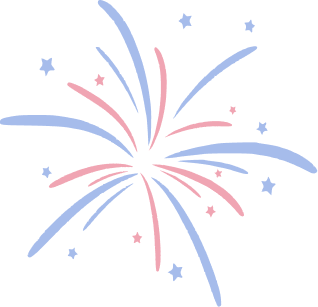
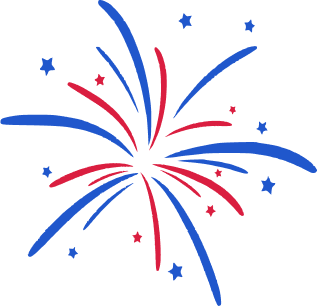
fix: new bottom images

diff --git a/components/landingPage/Bottom.tsx b/components/landingPage/Bottom.tsx
@@ -1,16 +1,28 @@
 "use client"
 import React from 'react';
 import Button from '../Button';
-import MyFavoriteSport2024 from '../../public/landingPage/MyFavoriteSport2024.png';
+import a from '../../public/landingPage/a.jpg';
+import b from '../../public/landingPage/b.jpg';
+import c from '../../public/landingPage/c.png';
+import d from '../../public/landingPage/d.jpg';
+import e from '../../public/landingPage/e.jpg';
+import f from '../../public/landingPage/f.jpg';
+import g from '../../public/landingPage/g.jpg';
+import h from '../../public/landingPage/h.jpg';
+import i from '../../public/landingPage/i.jpg';
+import j from '../../public/landingPage/j.jpg';
+
 import Image from "next/image";
 
 const Bottom = () => {
 
+  const images = [a, b, c, d, e, f, g, h, i, j];
+
   return (
-    <section className='relative w-full'>
-      <div className='z-50 m-auto max-w-screen-2xl px-8 md:px-12 lg:px-16 xl:px-20'>
-        <h2 className='font-montserrat font-semibold text-2xl text-left w-full md:w-3/4'>Your donation today will cultivate children's creativity and grow their mutual empathy for shared prosperity and “a more perfect union.”</h2>
-        <div className='my-8 grid grid-cols-2 gap-x-5 sm:w-2/3 md:w-1/2 lg:w-1/3 2xl:w-1/4'>
+    <section className='relative z-50 m-auto max-w-screen-2xl px-8 md:px-12 lg:px-16 xl:px-20'>
+      <div className='rounded-3xl bg-blue bg-opacity-10'>
+        <h2 className='ml-12 pt-28 font-montserrat font-semibold text-2xl text-left w-full md:w-3/4'>Your donation today will cultivate children's creativity and grow their mutual empathy for shared prosperity and “a more perfect union.”</h2>
+        <div className='ml-12 mt-12 pb-28 grid grid-cols-2 gap-x-5 sm:w-2/3 md:w-1/2 lg:w-1/3 2xl:w-1/4'>
           <Button
             bgColor="bg-yellow"
             textColor="text-black w-full"
@@ -26,25 +38,22 @@ const Bottom = () => {
             Contact Us
           </Button>
         </div>
-        <div className="z-20 flex flex-row overflow-x-auto m-auto whitespace-nowrap px-4 mb-10 gap-x-4 scrollbar-hide">
-          <Image src={MyFavoriteSport2024} alt="" className="w-72 xl:w-96 h-44 md:h-48 lg:h-52 xl:h-64 z-20 object-scale-down rounded-xl"/>
-          <Image src={MyFavoriteSport2024} alt="" className="w-72 xl:w-96 h-44 md:h-48 lg:h-52 xl:h-64 z-20 object-scale-down rounded-xl"/>
-          <Image src={MyFavoriteSport2024} alt="" className="w-72 xl:w-96 h-44 md:h-48 lg:h-52 xl:h-64 z-20 object-scale-down rounded-xl"/>
-          <Image src={MyFavoriteSport2024} alt="" className="w-72 xl:w-96 h-44 md:h-48 lg:h-52 xl:h-64 z-20 object-scale-down rounded-xl"/>
-          <Image src={MyFavoriteSport2024} alt="" className="w-72 xl:w-96 h-44 md:h-48 lg:h-52 xl:h-64 z-20 object-scale-down rounded-xl"/>
-          <Image src={MyFavoriteSport2024} alt="" className="w-72 xl:w-96 h-44 md:h-48 lg:h-52 xl:h-64 z-20 object-scale-down rounded-xl"/>
-        </div>
       </div>
-
-      <img src="/landingPage/RedAndBlueFirework.png" className='z-10 absolute right-0 -top-[100px] sm:-top-[150px] md:-top-[100px] lg:right-20 max-w-[300px] w-1/3 sm:w-1/4 2xl:w-1/5'/>
-
-      <div className='w-full absolute -bottom-52  -z-10'>
-        <img src="/landingPage/background_sm.png" alt="Background for sm devices" className="w-full h-[900px] block sm:hidden" />
-        <img src="/landingPage/background_md.png" alt="Background for md devices" className="w-full h-[800px] hidden sm:block md:hidden" />
-        <img src="/landingPage/background_lg.png" alt="Background for lg devices" className="w-full h-[800px] hidden md:block lg:hidden" />
-        <img src="/landingPage/background_xl.png" alt="Background for xl devices" className="w-full h-[800px] hidden lg:block xl:hidden" />
-        <img src="/landingPage/background_2xl.png" alt="Background for 2xl devices" className="w-full h-[850px] hidden xl:block" />
+      <div className="py-32 z-20 flex flex-row overflow-x-auto m-auto whitespace-nowrap px-4 mb-10 gap-x-4 scrollbar-hide">
+        {/* <Image src={a} alt="" className="w-72 xl:w-96 h-44 md:h-48 lg:h-52 xl:h-64 z-20 object-cover object-center rounded-xl"/> */}
+          {images.map((src, index) => (
+            <Image
+              key={index}
+              src={src}
+              alt={`image-${index}`} 
+              className="w-72 xl:w-96 h-44 md:h-48 lg:h-52 xl:h-64 z-20 object-cover object-center rounded-xl"
+            />
+          ))}
       </div>
+      
+
+      <img src="/landingPage/RedAndBlueFirework.png" className='z-10 absolute right-0 -top-[50px] xsm:-top-[100px] md:top-64 lg:top-56 lg:right-2 xl:top-36 max-w-[300px] w-1/3 sm:w-1/4 2xl:w-1/5'/>
+
       
     </section>
   );

diff --git a/components/landingPage/SpecialProjects.tsx b/components/landingPage/SpecialProjects.tsx
@@ -8,29 +8,46 @@ import VRHeaven2025 from '../../public/landingPage/VRHeaven2025.png';
 const SpecialProjects = () => {
 
   return (
-    <section className='my-40 mb-[300px] m-auto max-w-screen-2xl px-8 md:px-12 lg:px-16 xl:px-20'>
-      <h1 className='mb-10 font-extrabold font-montserrat text-2xl lg:text-4xl text-center text-black'>Special Projects Websites</h1>
-      <div className='grid grid-cols-1 lg:grid-cols-3 gap-6'>
-        <ProjectCard  
-          background={WorldChildrenFestival2025}
-          title="World Children's Festival 2025"
-          element="A three-day celebration of American values of creativity, diversity, and unity"
-          link="#"
-        />
-        <ProjectCard  
-          background={MyFavoriteSport2024}
-          title="My Favorite Sport 2024"
-          element="A global art contest to celebrate the Paris Games"
-          link="#"
-        />
-        <ProjectCard  
-          background={VRHeaven2025}
-          title="VR Heaven 2025/2026"
-          element="Virtual Reality that brings Heaven to Earth"
-          link="#"
-        />
-      </div>
-    </section>
+    <>
+      <img src="/landingPage/threeline_sm.png" alt="threeline for sm devices" className="mt-96 xsm:mt-48 absolute w-full h-fit min-h-[600px] xsm:min-h-[400px] block sm:hidden" />
+      <img src="/landingPage/threeline_md.png" alt="threeline for md devices" className="absolute w-full h-fit hidden sm:block lg:hidden" />
+      <img src="/landingPage/threeline_lg.png" alt="threeline for lg devices" className="mt-96 absolute w-full h-fit hidden lg:block xl:hidden" />
+      <img src="/landingPage/threeline_xl.png" alt="threeline for xl devices" className="mt-96 absolute w-full h-fit hidden xl:block 2xl:hidden" />
+      <img src="/landingPage/threeline_2xl.png" alt="threeline for 2xl devices" className="absolute w-full h-fit hidden 2xl:block" />
+      <section className='z-20 relative my-40 mb-[300px] m-auto max-w-screen-2xl px-8 md:px-12 lg:px-16 xl:px-20'>
+        <div className="flex justify-center items-center mb-10">
+          <img src="/landingPage/BlueFirework.png" className="w-12 sm:w-16 md:w-14 lg:w-16 2xl:w-20 h-auto mx-2 mb-12 lg:mb-16 xl:mb-20" alt="left firework" />
+          <h1 className="font-extrabold font-montserrat text-2xl lg:text-4xl text-center text-black">
+            Special Projects Websites
+          </h1>
+          <img src="/landingPage/BlueFirework.png" className="w-12 sm:w-16 md:w-14 lg:w-16 2xl:w-20 h-auto mx-2 mb-12 lg:mb-16 xl:mb-20" alt="right firework" />
+        </div>
+
+        <div className='grid grid-cols-1 lg:grid-cols-3 gap-6'>
+          <ProjectCard  
+            background={WorldChildrenFestival2025}
+            title="World Children's Festival 2025"
+            element="A three-day celebration of American values of creativity, diversity, and unity"
+            link="#"
+            borderColor="border-red"
+          />
+          <ProjectCard  
+            background={MyFavoriteSport2024}
+            title="My Favorite Sport 2024"
+            element="A global art contest to celebrate the Paris Games"
+            link="#"
+            borderColor="border-blue"
+          />
+          <ProjectCard  
+            background={VRHeaven2025}
+            title="VR Heaven 2025/2026"
+            element="Virtual Reality that brings Heaven to Earth"
+            link="#"
+            borderColor="border-yellow"
+          />
+        </div>
+      </section>
+    </>
   );
 };
 

diff --git a/components/landingPage/WhyICAF.tsx b/components/landingPage/WhyICAF.tsx
@@ -14,7 +14,7 @@ const WhyICAF = () => {
           <div className='col-span-2 lg:col-span-1'>
             <div className='flex col-span-1'>
               <AdsClickIcon style={{ color: "#2057CC" }}/>
-              <h2 className="ml-5 text-main-blue text-2xl lg:text-4xl font-semibold font-montserrat">Mission</h2>
+              <h2 className="ml-5 text-blue text-2xl lg:text-4xl font-semibold font-montserrat">Mission</h2>
             </div>
             <p className="mt-4 lg:ml-10 col-span-1 lg:col-span-2 text-base text-black font-normal font-openSans">To seed students' imagination, cultivate their creativity, and grow mutual empathy through the power of art. </p> 
           </div>
@@ -48,7 +48,7 @@ const WhyICAF = () => {
             <div className='mx-auto w-[380px] lg:w-full mt-12 grid grid-cols-1 lg:grid-cols-3'>
               <div className='flex col-span-1'>
                 <AdsClickIcon style={{ color: "#2057CC" }}/>
-                <h2 className="ml-5 text-main-blue text-2xl lg:text-4xl font-semibold font-montserrat">Mission</h2>
+                <h2 className="ml-5 text-blue text-2xl lg:text-4xl font-semibold font-montserrat">Mission</h2>
               </div>
               <p className="mt-4 lg:mt-0 lg:ml-10 col-span-1 lg:col-span-2 text-base text-black font-normal font-openSans">To seed students' imagination, cultivate their creativity, and grow mutual empathy through the power of art. </p>
               <div className='mt-10 flex col-span-1'>
@@ -63,13 +63,13 @@ const WhyICAF = () => {
           <div className="relative col-span-2 lg:col-span-1 h-80">
             <div className=" flex flex-col items-start">
               <div className="mx-auto mt-10 relative">
-                <div className="z-10 rounded-t-full rounded-b-full bg-gradient-to-b from-main-red to-main-blue absolute left-3.5 top-0 h-full w-1 bg-red-500"></div>
+                <div className="z-10 rounded-t-full rounded-b-full bg-gradient-to-b from-main-red to-blue absolute left-3.5 top-0 h-full w-1 bg-red-500"></div>
                 <div className="mt-4 z-50 flex items-center mb-8">
                   <div className="z-50 h-8 w-8 rounded-full bg-main-red"></div>
                   <h2 className="ml-8 text-2xl font-semibold font-montserrat">Social and Cultural Impact</h2>
                 </div>
                 <div className="z-50 flex items-center mb-8">
-                  <div className="z-50 h-8 w-8 rounded-full bg-main-blue"></div>
+                  <div className="z-50 h-8 w-8 rounded-full bg-blue"></div>
                   <div className="ml-8">
                     <h2 className="text-2xl font-semibold font-montserrat">115 Countries Reached</h2>
                     <p className="text-base text-black font-normal font-openSans">to make students creative and empathetic</p>
@@ -83,7 +83,7 @@ const WhyICAF = () => {
                   </div>
                 </div>
                 <div className="flex items-center">
-                  <div className="z-50 mb-4 h-8 w-8 rounded-full bg-main-blue"></div>
+                  <div className="z-50 mb-4 h-8 w-8 rounded-full bg-blue"></div>
                   <div className="ml-8">
                     <h2 className="text-2xl font-semibold font-montserrat">2 Million Kids Worldwide</h2>
                     <p className="text-base text-black font-normal font-openSans">produced original works for ICAF</p>

diff --git a/public/landingPage/icons/NorthEastIcon.tsx b/public/landingPage/icons/NorthEastIcon.tsx
@@ -2,6 +2,6 @@ import { SVGProps } from "react";
 
 export const NorthEastIcon = (props: SVGProps<SVGSVGElement>) => (
   <svg width="24" height="24" viewBox="0 0 24 24" fill="none" xmlns="http://www.w3.org/2000/svg">
-  <path id="outbound_2" d="M8.9 15.7885L14.5 10.1885V13.15H15.5V8.5H10.85V9.5H13.7865L8.2115 15.075L8.9 15.7885ZM12.0033 21C10.7587 21 9.58867 20.7638 8.493 20.2915C7.3975 19.8192 6.4445 19.1782 5.634 18.3685C4.8235 17.5588 4.18192 16.6067 3.70925 15.512C3.23642 14.4175 3 13.2479 3 12.0033C3 10.7587 3.23617 9.58867 3.7085 8.493C4.18083 7.3975 4.82183 6.4445 5.6315 5.634C6.44117 4.8235 7.39333 4.18192 8.488 3.70925C9.5825 3.23642 10.7521 3 11.9967 3C13.2413 3 14.4113 3.23617 15.507 3.7085C16.6025 4.18083 17.5555 4.82183 18.366 5.6315C19.1765 6.44117 19.8181 7.39333 20.2908 8.488C20.7636 9.5825 21 10.7521 21 11.9967C21 13.2413 20.7638 14.4113 20.2915 15.507C19.8192 16.6025 19.1782 17.5555 18.3685 18.366C17.5588 19.1765 16.6067 19.8181 15.512 20.2908C14.4175 20.7636 13.2479 21 12.0033 21ZM12 20C14.2333 20 16.125 19.225 17.675 17.675C19.225 16.125 20 14.2333 20 12C20 9.76667 19.225 7.875 17.675 6.325C16.125 4.775 14.2333 4 12 4C9.76667 4 7.875 4.775 6.325 6.325C4.775 7.875 4 9.76667 4 12C4 14.2333 4.775 16.125 6.325 17.675C7.875 19.225 9.76667 20 12 20Z" fill="#FAFAFA"/>
+    <path d="M8.90098 15.7885L14.501 10.1885V13.15H15.501V8.5H10.851V9.5H13.7875L8.21248 15.075L8.90098 15.7885ZM12.0042 21C10.7597 21 9.58964 20.7638 8.49398 20.2915C7.39848 19.8192 6.44548 19.1782 5.63498 18.3685C4.82448 17.5588 4.18289 16.6067 3.71023 15.512C3.23739 14.4175 3.00098 13.2479 3.00098 12.0032C3.00098 10.7587 3.23714 9.58867 3.70948 8.493C4.18181 7.3975 4.82281 6.4445 5.63248 5.634C6.44214 4.8235 7.39431 4.18192 8.48898 3.70925C9.58348 3.23642 10.7531 3 11.9977 3C13.2422 3 14.4123 3.23617 15.508 3.7085C16.6035 4.18083 17.5565 4.82183 18.367 5.6315C19.1775 6.44117 19.8191 7.39333 20.2917 8.488C20.7646 9.5825 21.001 10.7521 21.001 11.9967C21.001 13.2412 20.7648 14.4113 20.2925 15.507C19.8201 16.6025 19.1791 17.5555 18.3695 18.366C17.5598 19.1765 16.6076 19.8181 15.513 20.2907C14.4185 20.7636 13.2489 21 12.0042 21ZM12.001 20C14.2343 20 16.126 19.225 17.676 17.675C19.226 16.125 20.001 14.2333 20.001 12C20.001 9.76667 19.226 7.875 17.676 6.325C16.126 4.775 14.2343 4 12.001 4C9.76764 4 7.87598 4.775 6.32598 6.325C4.77598 7.875 4.00098 9.76667 4.00098 12C4.00098 14.2333 4.77598 16.125 6.32598 17.675C7.87598 19.225 9.76764 20 12.001 20Z" fill="#121212"/>
   </svg>
 );

diff --git a/components/landingPage/Educational.tsx b/components/landingPage/Educational.tsx
@@ -1,0 +1,46 @@
+import React from "react";
+import { EducationalCard } from "./EducationalCard";
+
+ const Educational= () => {
+
+  return (
+    <div className="mt-24 sm:mt-32 md:mt-36 m-auto max-w-screen-2xl px-8 md:px-12 lg:px-16 xl:px-20">
+      <h1 className="font-extrabold font-montserrat text-2xl lg:text-4xl text-center text-black">Educational & Cultural Impact</h1>
+      <p className='mb-10 mt-10 xl:mt-8 2xl:mt-6 text-base md:text-xl font-normal text-black font-openSans text-left lg:text-center'>ICAF serves American children as their national art and creativity organization and the world's children as their global art and creativity organization.</p>
+      <div className="grid grid-cols-1 gap-y-6 sm:gap-y-8 lg:gap-7 xl:gap-8 2xl:gap-10 lg:grid-cols-4 lg:grid-rows-2">
+        <div className="col-span-1 order-1 row-span-1">
+          <EducationalCard
+            borderColor= "border-red"
+            title= "Pedagogy"
+            description= "ICAF has pioneered STEAMS education to integrate art and sports into STEM instruction."
+          />
+        </div>
+        <div className="col-span-1 order-2 lg:order-3 row-span-1">        
+          <EducationalCard
+            borderColor= "border-blue"
+            title= "Advocacy"
+            description= "ICAF is the largest child art exhibitor and organizer of youth panels at conferences."
+          />
+        </div>
+        <div className="col-span-1 order-3 lg:order-4 row-span-1 lg:col-span-4">
+          <EducationalCard
+            borderColor= "border-yellow"
+            title= "5M"
+            description= "Over the past 26 years, about five million students worldwide have produced art under ICAF programs."
+          />
+        </div>
+        <a href="#" target="_blank" rel="noopener noreferrer" className="col-span-1 lg:col-span-3 order-4 lg:order-2 row-span-1 lg:row-span-2">
+          <img
+            src="/landingPage/videoThumbnail.jpg"
+            alt="Video Thumbnail"
+            className="rounded-2xl"
+          />
+        </a>
+
+      </div>
+
+    </div>
+  );
+};
+
+export default Educational;

diff --git a/components/landingPage/ProjectCard.tsx b/components/landingPage/ProjectCard.tsx
@@ -7,30 +7,31 @@ type CustomCardProps = {
   title: string;
   element: string;
   link: string;
+  borderColor: string;
 };
 
-export const ProjectCard: React.FC<CustomCardProps> = ({ background, title, element, link }) => {
+export const ProjectCard: React.FC<CustomCardProps> = ({ background, title, element, link, borderColor }) => {
   return (
     <div className="w-full sm:w-2/3 lg:w-full mx-auto rounded-b-2xl overflow-hidden flex flex-col">
       <div className="relative w-full h-[215px] md:h-[363px] lg:h-[174px] xl:h-[210px] 2xl:h-[311px]">
         <Image
           src={background}
-          layout="fill"
-          objectFit="cover"
-          objectPosition="center"
-          className="absolute top-0 left-0 w-full h-full rounded-t-full"
+          fill
+          style={{ objectFit: "cover", objectPosition: "center" }}
+          sizes="(max-width: 1024px) 66vw, (max-width: 1536px) 33vw"
+          className={`absolute top-0 left-0 w-full h-full rounded-t-full border-t-2 border-x-2 ${borderColor}`}
           alt={title}
         />
       </div>
 
-      <div className="p-6 text-center bg-main-blue text-white rounded-b-2xl flex-grow flex flex-col justify-between">
+      <div className={`p-6 text-center bg-white text-black rounded-b-2xl flex-grow flex flex-col justify-between border-b-2 border-x-2 ${borderColor}`}>
         <div>
           <h3 className="text-center text-xl font-semibold font-openSans">{title}</h3>
           <p className="mt-4 text-base font-light font-openSans">{element}</p>
         </div>
         <a href={link}>
           <div className="mt-8 inline-flex items-center justify-center text-base font-normal">
-            Go to Website <span className="ml-2"><NorthEastIcon /></span>
+            Go to Website <span className="ml-2 text-black"><NorthEastIcon /></span>
           </div>
         </a>
       </div>

diff --git a/components/landingPage/EducationalCard.tsx b/components/landingPage/EducationalCard.tsx
@@ -1,0 +1,22 @@
+import React from "react";
+
+interface EducationalCardProps {
+  borderColor: string;
+  title: string;
+  description: string;
+}
+
+export const EducationalCard: React.FC<EducationalCardProps> = ({ borderColor, title, description }) => {
+  return (
+    <div className={`h-full text-center lg:text-left border-2 lg:border-4 ${borderColor} rounded-2xl`}> 
+      <div className="p-10 lg:p-6">
+        <h1 className="font-montserrat font-extrabold text-3xl sm:text-2xl xl:text-4xl">
+          {title} 
+        </h1>
+        <p className="mt-5 font-openSans font-normal text-xl lg:text-base xl:text-xl">
+          {description} 
+        </p>
+      </div>
+    </div>
+  );
+};

diff --git a/src/app/LandingPage.tsx b/src/app/LandingPage.tsx
@@ -5,6 +5,7 @@ import WhatWeDo from "../../components/landingPage/WhatWeDo";
 import Activities from "../../components/landingPage/Activities";
 import SpecialProjects from "../../components/landingPage/SpecialProjects";
 import Bottom from "../../components/landingPage/Bottom";
+import Educational from "../../components/landingPage/Educational";
 
 const LandingPage = () => {
   return (
@@ -13,6 +14,7 @@ const LandingPage = () => {
       <WhyICAF />
       <WhatWeDo />
       <Activities />
+      <Educational />
       <SpecialProjects />
       <Bottom />
     </>

diff --git a/components/landingPage/AccordionCard.tsx b/components/landingPage/AccordionCard.tsx
@@ -21,9 +21,9 @@ export const AccordionCard: React.FC<AccordionCardProps> = ({ datas, isExpanded,
     >
       <Image
         src={datas.backgroud}
-        layout="fill" 
-        objectFit="cover"  
-        objectPosition="center"  
+        fill
+        style={{ objectFit: "cover", objectPosition: "center" }}  
+        sizes="(max-width: 1024px) 50vw, (max-width: 1536px) 25vw"
         className="relative z-0 w-full h-full rounded-2xl"
         alt="image"
       />

diff --git a/tailwind.config.ts b/tailwind.config.ts
@@ -31,10 +31,11 @@ const config: Config = {
       colors:{
         "black": "#121212",
         "white": "#FFFFFF",
-        "yellow":"#FFBC42",
+        "yellow": "#FFBC42",
+        "red": "#DA1E40",
+        "blue": "#2057CC",
         "navy-blue":"#134380",
         "main-red": "#DA1E40",
-        "main-blue": "#2057CC",
       },
     },
   },
